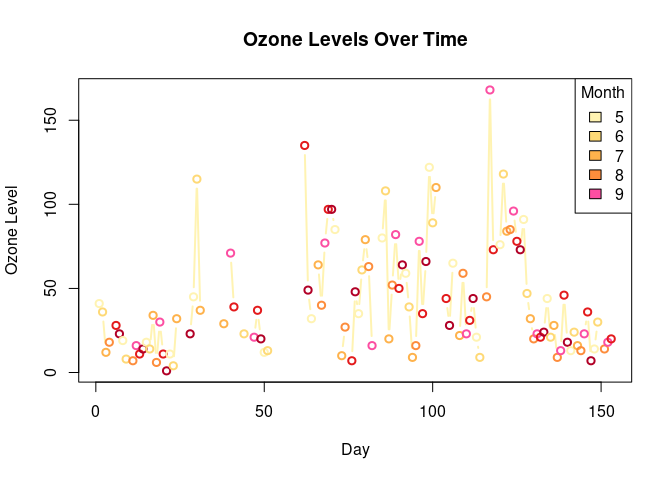
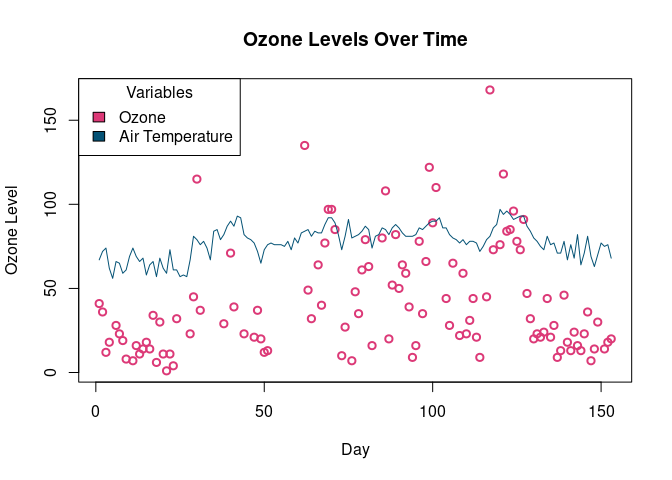
edited test case in README

diff --git a/README.md b/README.md
@@ -40,7 +40,7 @@ library(devtools)
 # Loading required package: usethis
 
 devtools::install_github("jcunha2023/icampcolors")
-# Skipping install of 'icampcolors' from a github remote, the SHA1 (d01be58a) has not changed since last install.
+# Skipping install of 'icampcolors' from a github remote, the SHA1 (379f007c) has not changed since last install.
 #   Use `force = TRUE` to force installation
 ```
 
@@ -166,16 +166,22 @@ ggplot(setosa_data, aes(Sepal.Length, Petal.Width))+
 <img src="README_files/figures/unnamed-chunk-11-1.png" width="100%" />
 
 Finally, icampcolors can be used with non-ggplot data visualization
-tools in R. Here is an example of a graph displaying Ozone levels from
-the ‘airquality’ dataset using the bright color palette.
+tools in R. Here is an example of a graph displaying Ozone levels and
+temperature from the ‘airquality’ dataset using the bright color
+palette:
 
 ``` r
 
 #create plot
-plot(airquality$Ozone, type = "b", col = icamp_color_palettes$bright, lwd = 2, xlab = "Day", ylab = "Ozone Level", main = "Ozone Levels Over Time")
+plot(airquality$Ozone, type = "p", col = icamp_color_palettes$diverging_2[6], lwd = 2, xlab = "Day", ylab = "Ozone Level", main = "Ozone Levels Over Time")
 
-#add legend
-legend(x = 'topright', legend = unique(airquality$Month), fill = icamp_color_palettes$bright, title = "Month")
+lines(airquality$Temp, col = icamp_color_palettes$diverging_2[1])
+
+#create legend
+legend(x = "topleft", title = "Variables", 
+       box.lwd = 1,
+       legend = c("Ozone", "Air Temperature"),
+       fill = c(icamp_color_palettes$diverging_2[6], icamp_color_palettes$diverging_2[1]))
 ```
 
 <img src="README_files/figures/unnamed-chunk-12-1.png" width="100%" />
